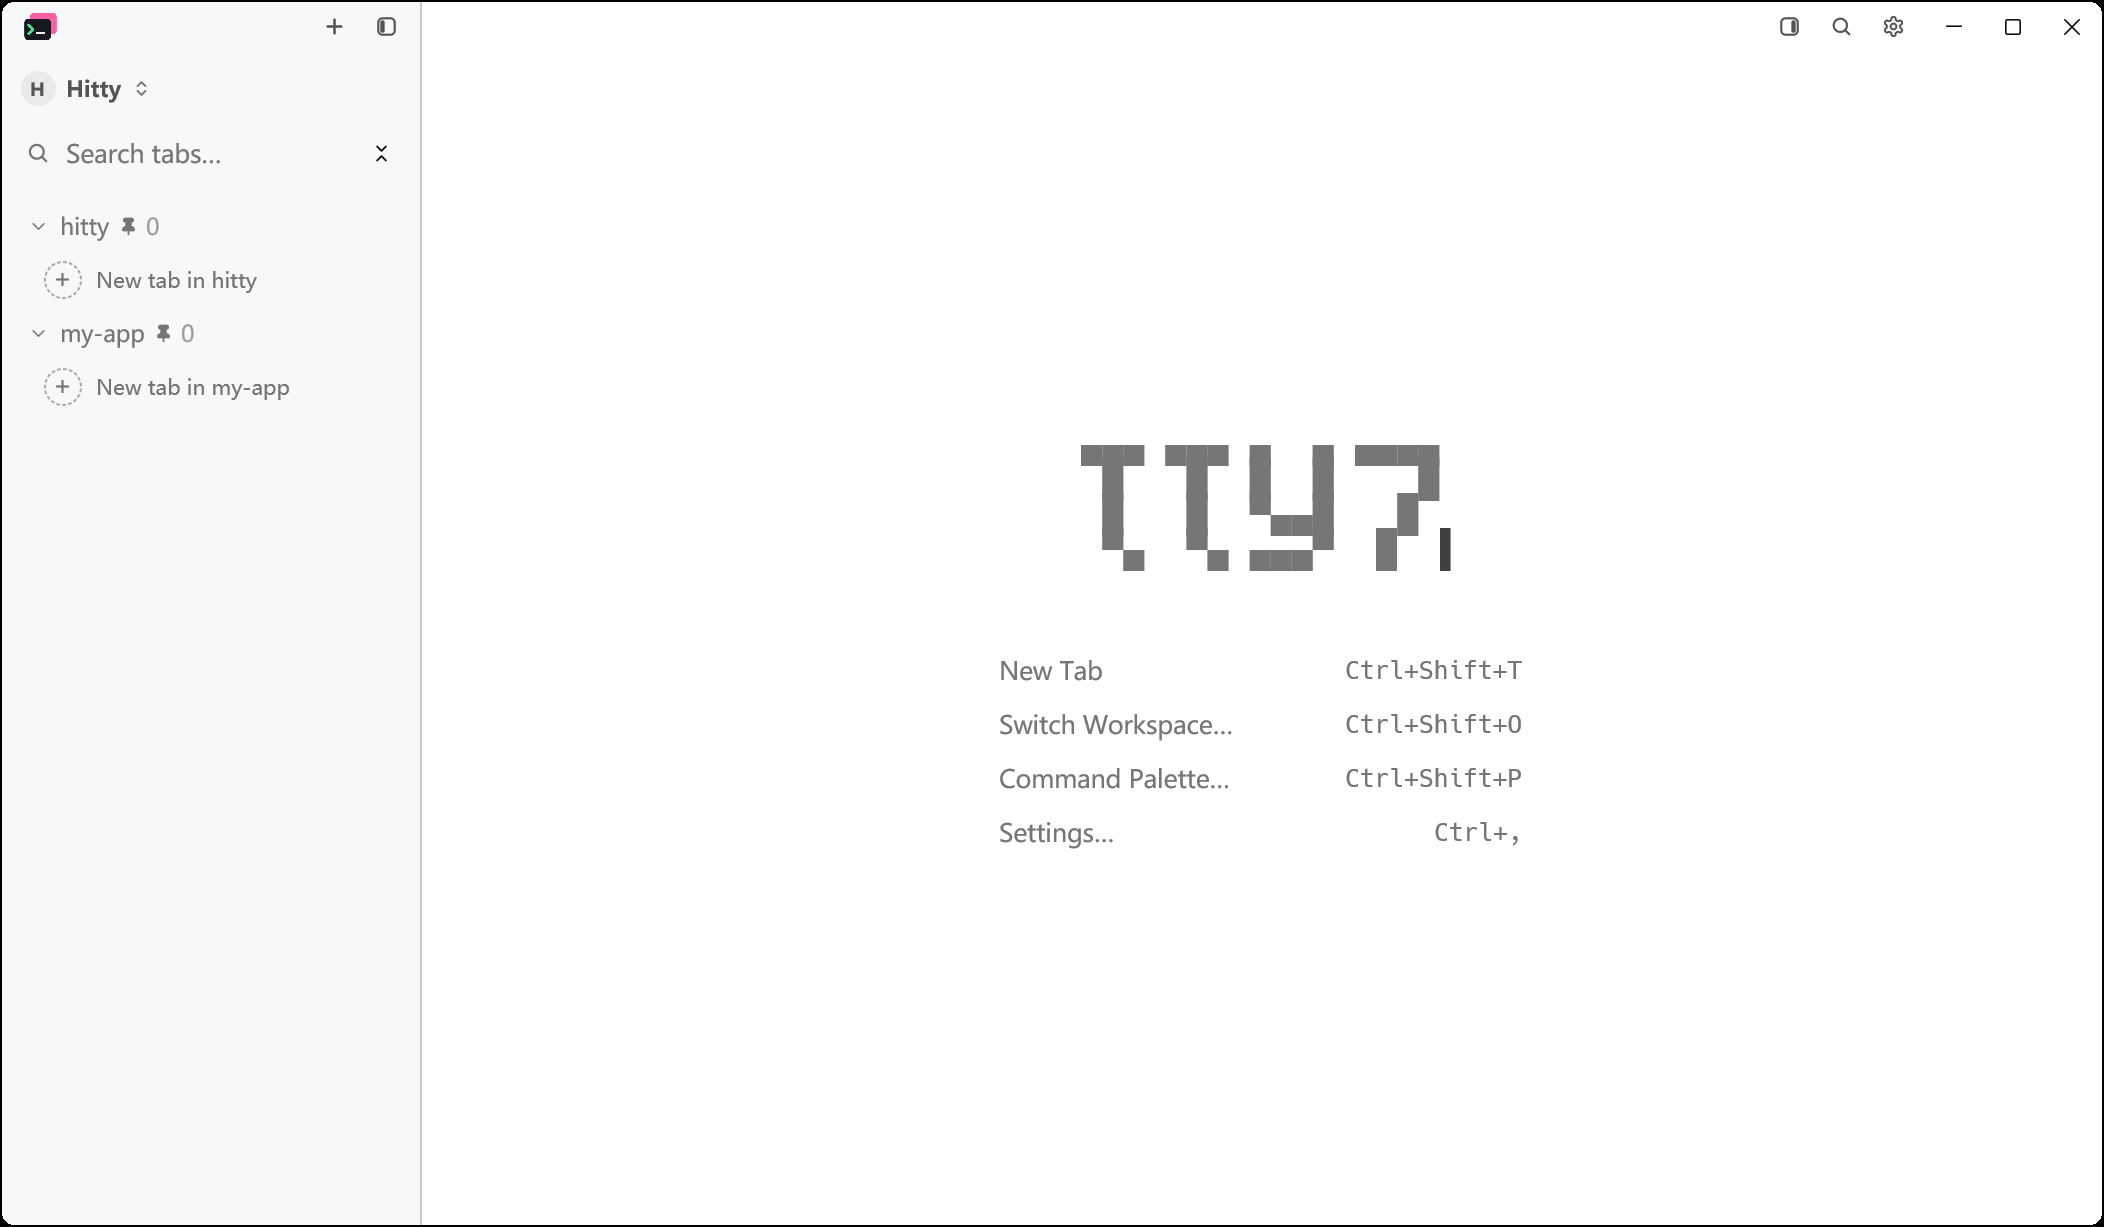
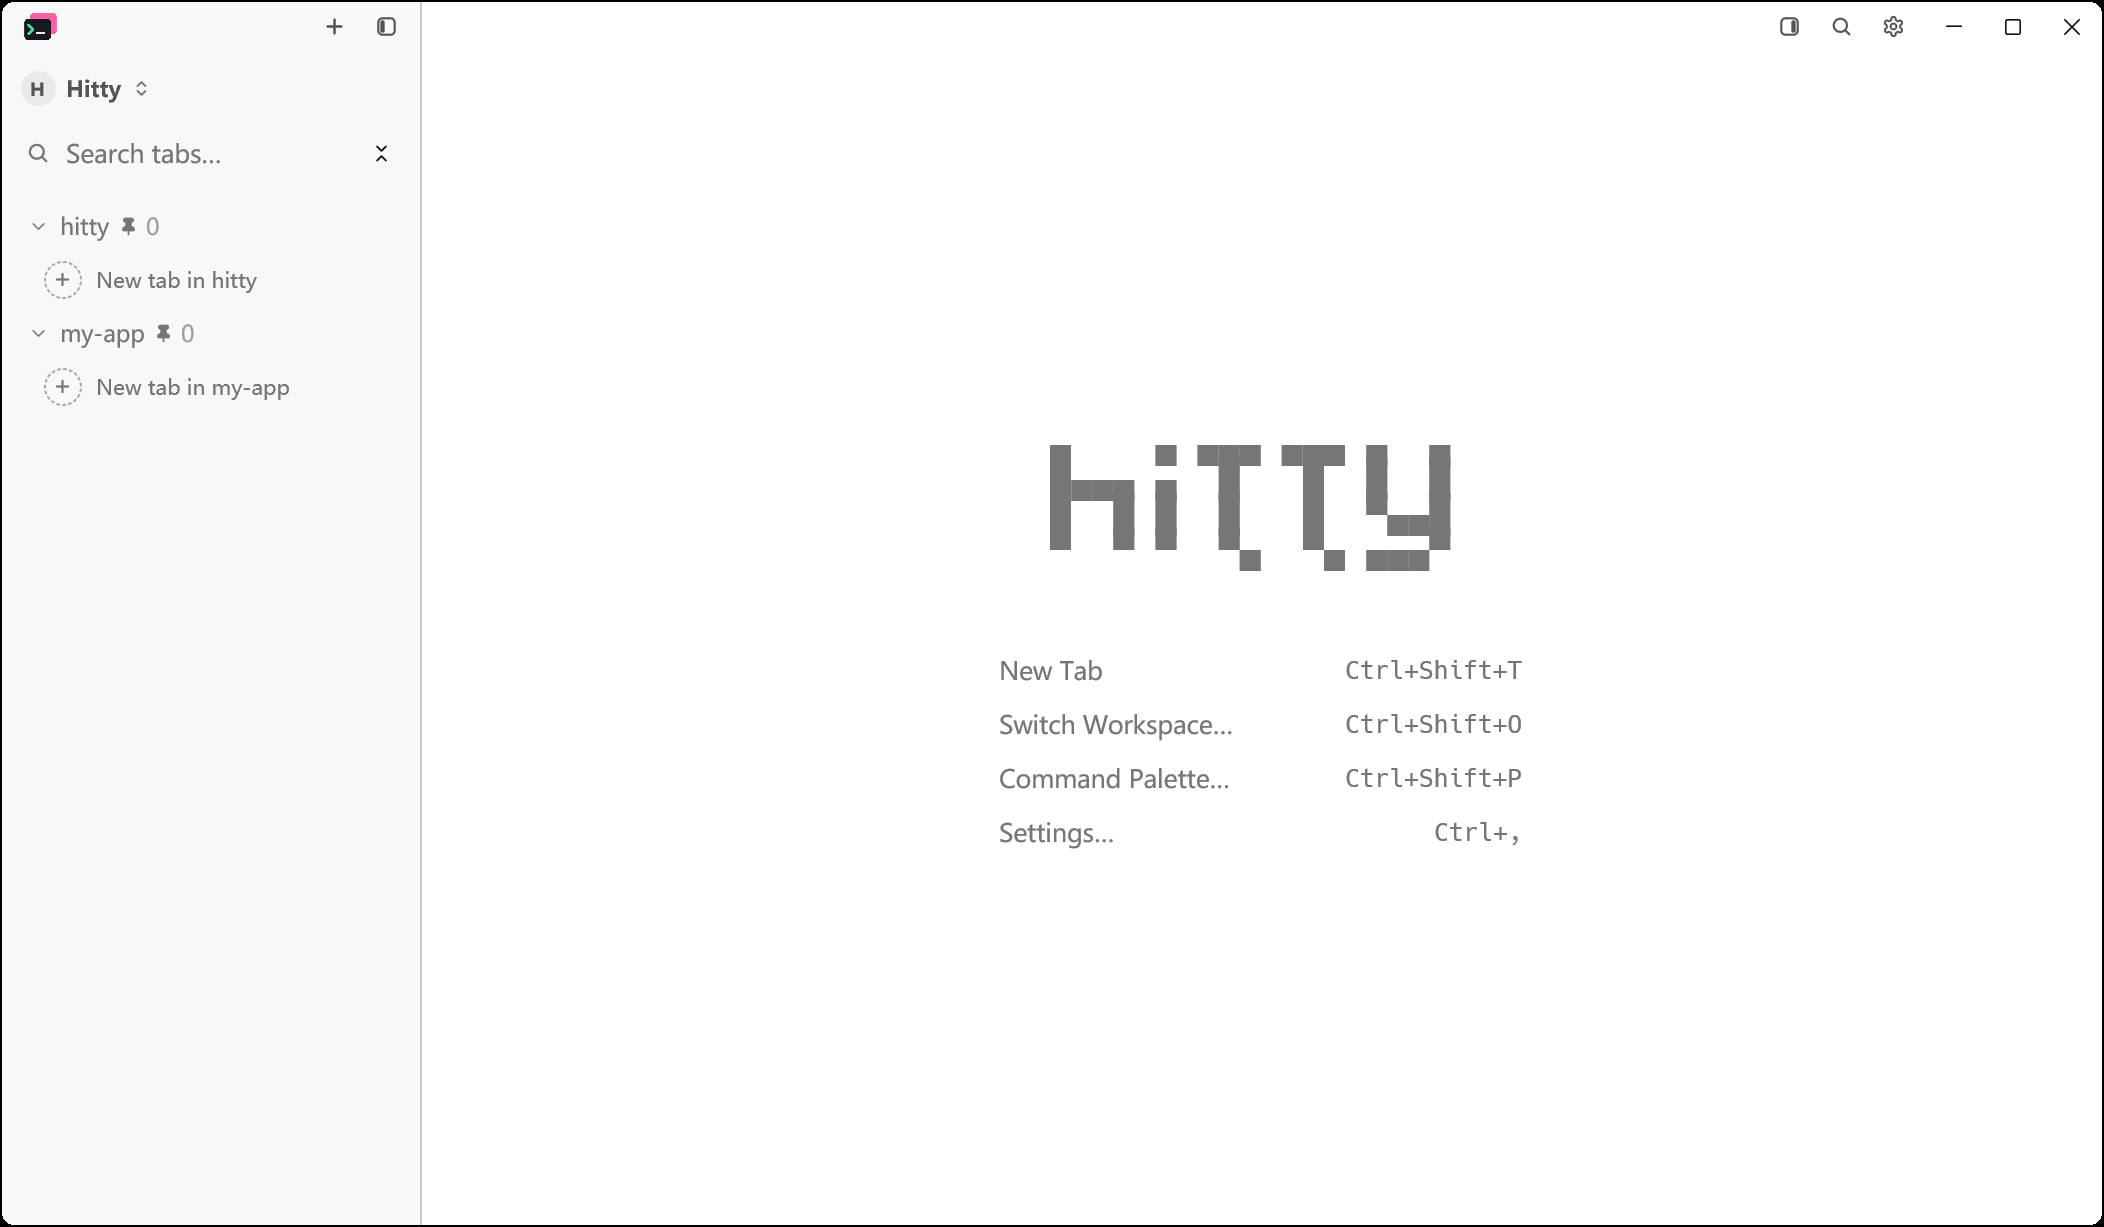
fix(sidebar): show Hitty in the empty workspace
Pinned empty folders expose the home screen and its old tty7 logo.
The PR also fails CI because three Rust files are unformatted.

1. Spell Hitty with the existing block lettering and refresh the
   paired light and dark screenshots.
2. Format the quick-launch changes with the workspace rustfmt.

Changed region(s): [[0.4943, 0.3407, 0.7106, 0.4645]]

diff --git a/crates/hitty-core/src/core/config.rs b/crates/hitty-core/src/core/config.rs
@@ -2742,14 +2742,16 @@ mod tests {
         parsed.sanitize();
         assert_eq!(parsed.agent_launch_commands.len(), 1);
         assert_eq!(
-            parsed.agent_launch_commands.get("codex").map(String::as_str),
+            parsed
+                .agent_launch_commands
+                .get("codex")
+                .map(String::as_str),
             Some("codex --yolo")
         );
 
-        let lenient: Config = serde_json::from_str(
-            r#"{"font_size": 16.0, "agent_launch_commands": ["not-a-map"]}"#,
-        )
-        .expect("a mistyped agent_launch_commands must not break the rest of config.json");
+        let lenient: Config =
+            serde_json::from_str(r#"{"font_size": 16.0, "agent_launch_commands": ["not-a-map"]}"#)
+                .expect("a mistyped agent_launch_commands must not break the rest of config.json");
         assert!(lenient.agent_launch_commands.is_empty());
         assert_eq!(lenient.font_size, 16.0);
     }

diff --git a/src/ui/i18n/ja.rs b/src/ui/i18n/ja.rs
@@ -574,7 +574,9 @@ pub fn translate_ja(key: L10nKey) -> Option<&'static str> {
         }
         L10nKey::SettingsAgentLaunchDefault => "デフォルト: {command}",
         L10nKey::SettingsAgentLaunchReset => "デフォルトコマンドに戻す",
-        L10nKey::SettingsAgentLaunchEmpty => "PATH 上にサポート対象の CLI エージェントが見つかりませんでした。",
+        L10nKey::SettingsAgentLaunchEmpty => {
+            "PATH 上にサポート対象の CLI エージェントが見つかりませんでした。"
+        }
         L10nKey::SettingsAgentHooksHeading => "ステータスフック",
         L10nKey::SettingsSearchAgentLaunchKeywords => {
             "クイック起動 コマンド 引数 yolo エイリアス サイドバー プラス codex claude"

diff --git a/src/core/agent_launcher.rs b/src/core/agent_launcher.rs
@@ -65,11 +65,7 @@ pub fn default_command_for(agent: CLIAgent, matched_alias: Option<&str>) -> Stri
 /// Resolves the command executed when launching `agent` from a directory's `+`
 /// menu: a trimmed non-empty entry in `config.agent_launch_commands` overrides
 /// `default_command`, and an empty or missing entry falls back to the default.
-pub fn effective_launch_command(
-    agent: CLIAgent,
-    default_command: &str,
-    config: &Config,
-) -> String {
+pub fn effective_launch_command(agent: CLIAgent, default_command: &str, config: &Config) -> String {
     config
         .agent_launch_commands
         .get(agent.slug())

diff --git a/src/ui/home.rs b/src/ui/home.rs
@@ -13,10 +13,10 @@ use crate::ui::app::HittyApp;
 use crate::ui::i18n::{L10nKey, t, t_fmt, t_plural};
 
 const LOGO: [&str; 4] = [
-    " ▄▄▄ ▄▄▄ ▄  ▄ ▄▄▄▄",
-    "  █   █  █  █    █",
-    "  █   █  ▀▄▄█   █",
-    "  ▀▄  ▀▄ ▄▄▄▀  █  ",
+    " ▄    ▄ ▄▄▄ ▄▄▄ ▄  ▄ ",
+    " █▄▄▄ ▄  █   █  █  █ ",
+    " █  █ █  █   █  ▀▄▄█ ",
+    " ▀  ▀ ▀  ▀▄  ▀▄ ▄▄▄▀ ",
 ];
 
 const LOGO_PX: f32 = 20.0;
